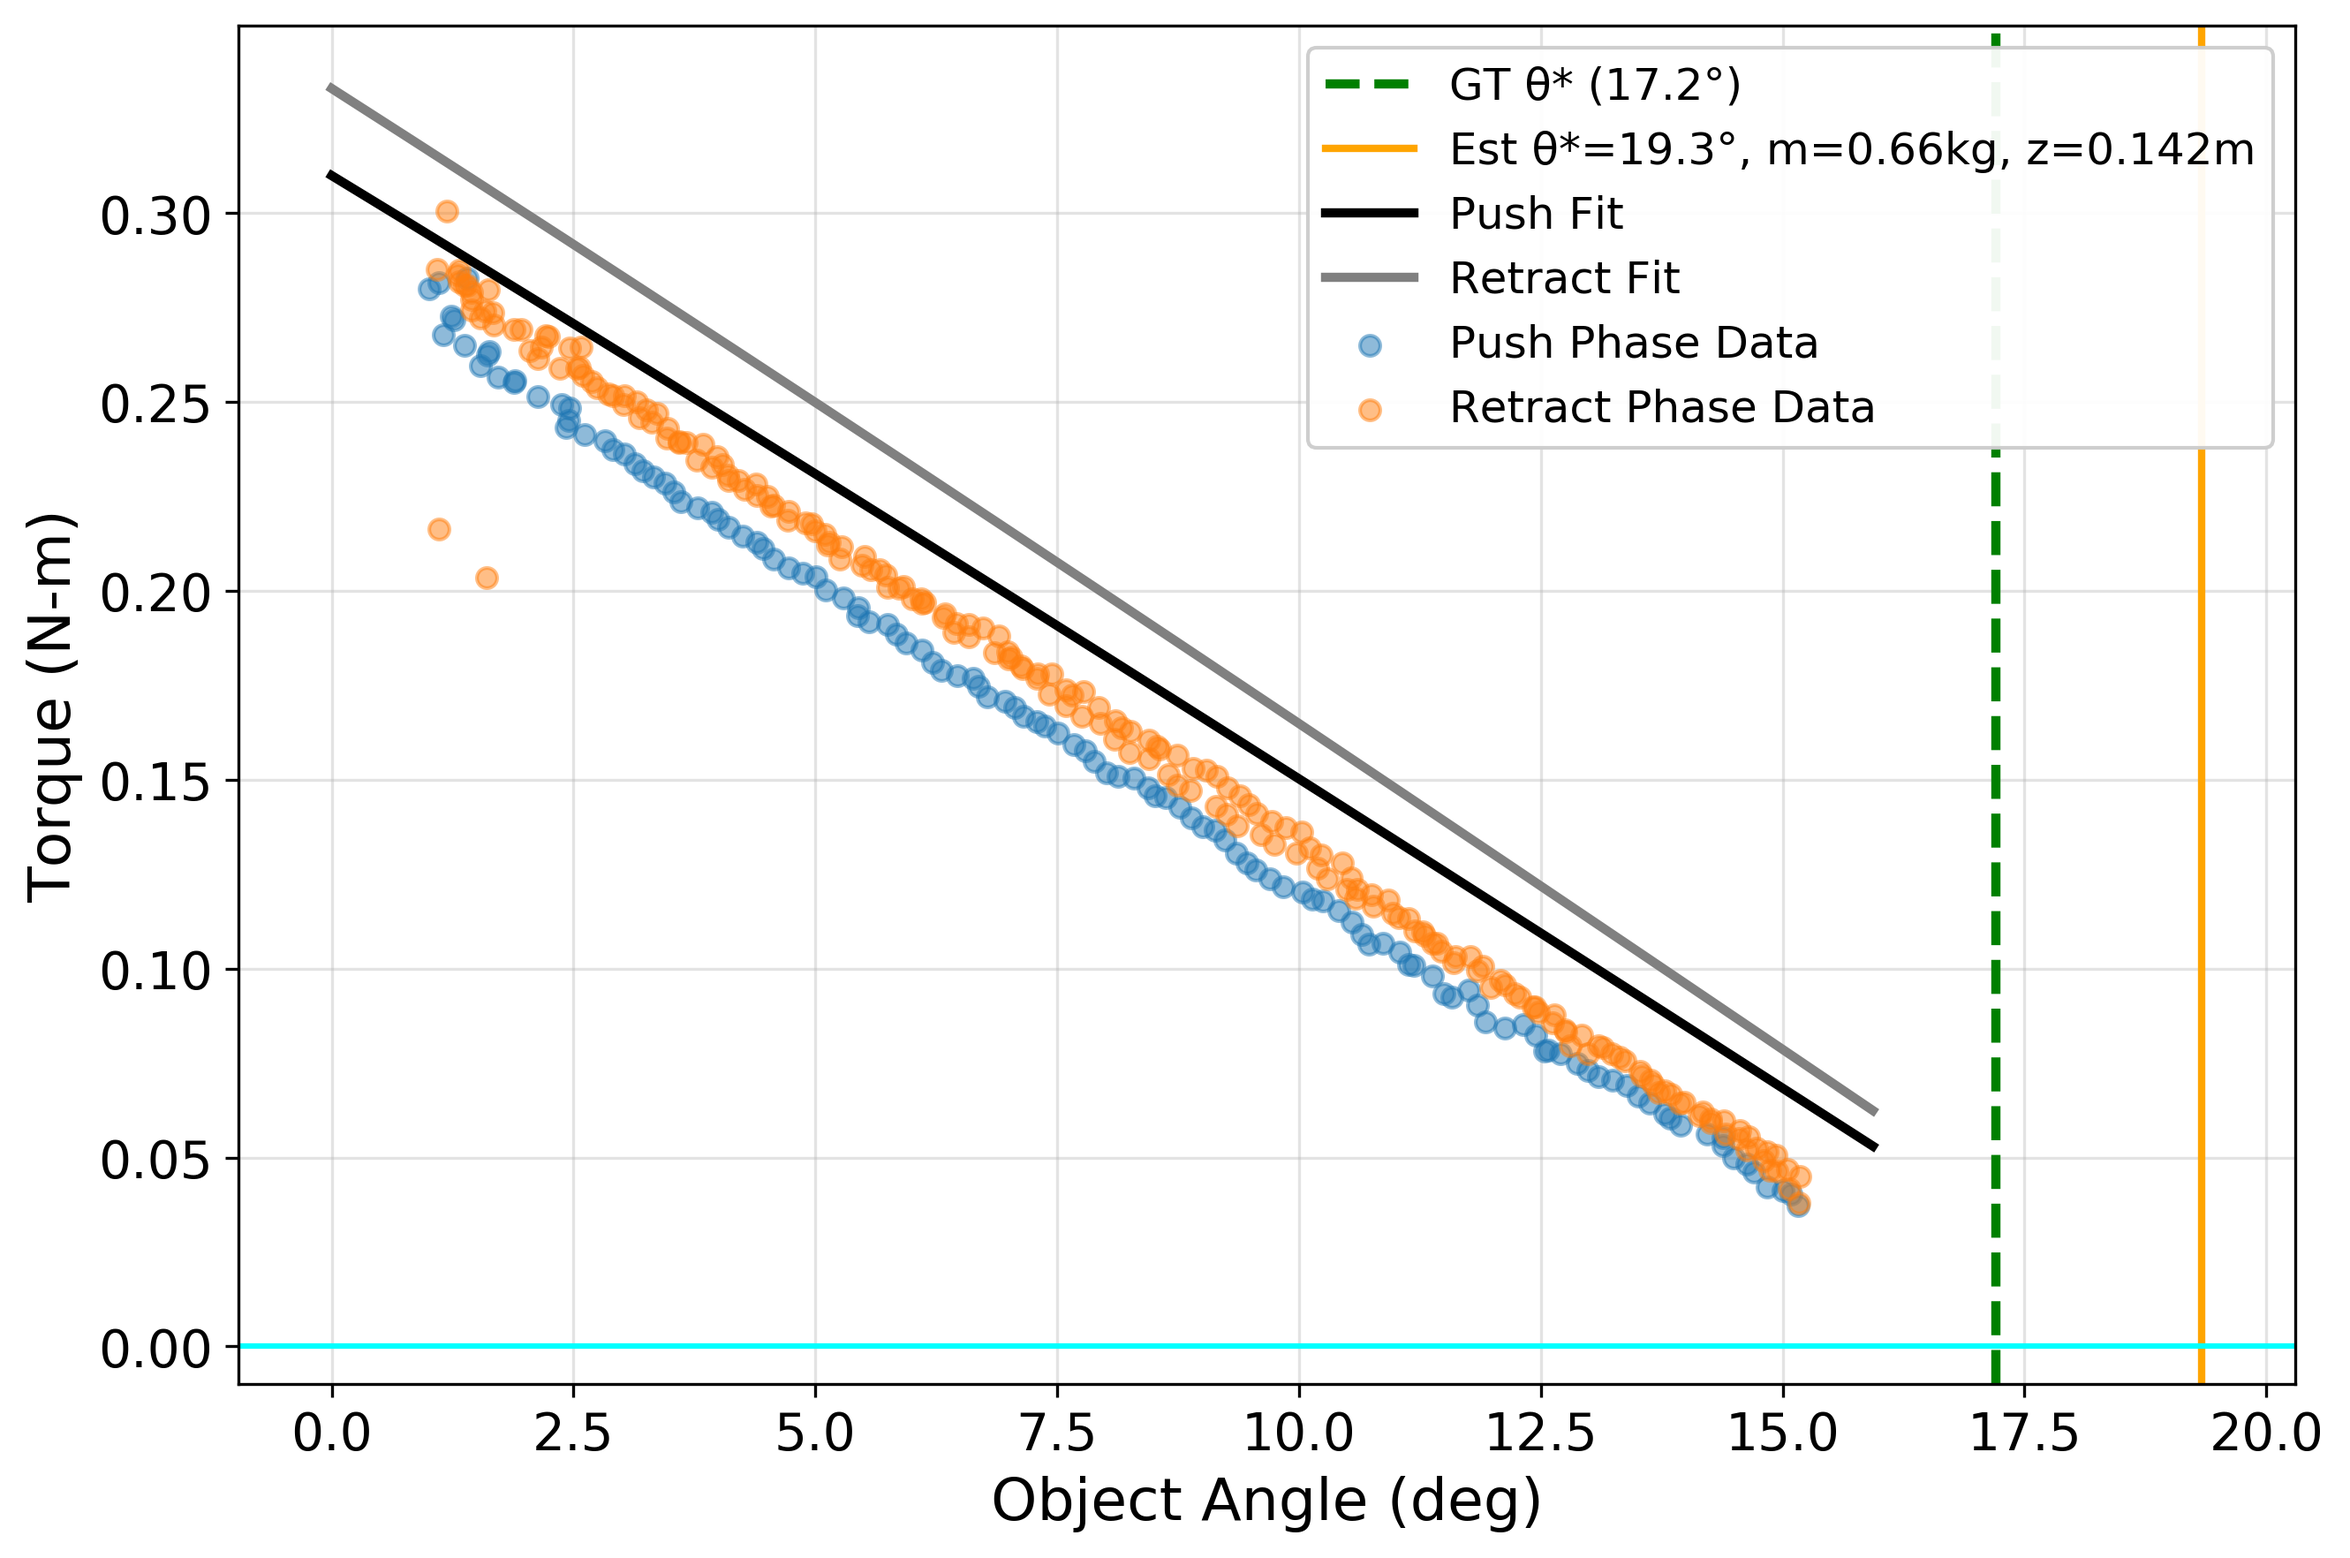
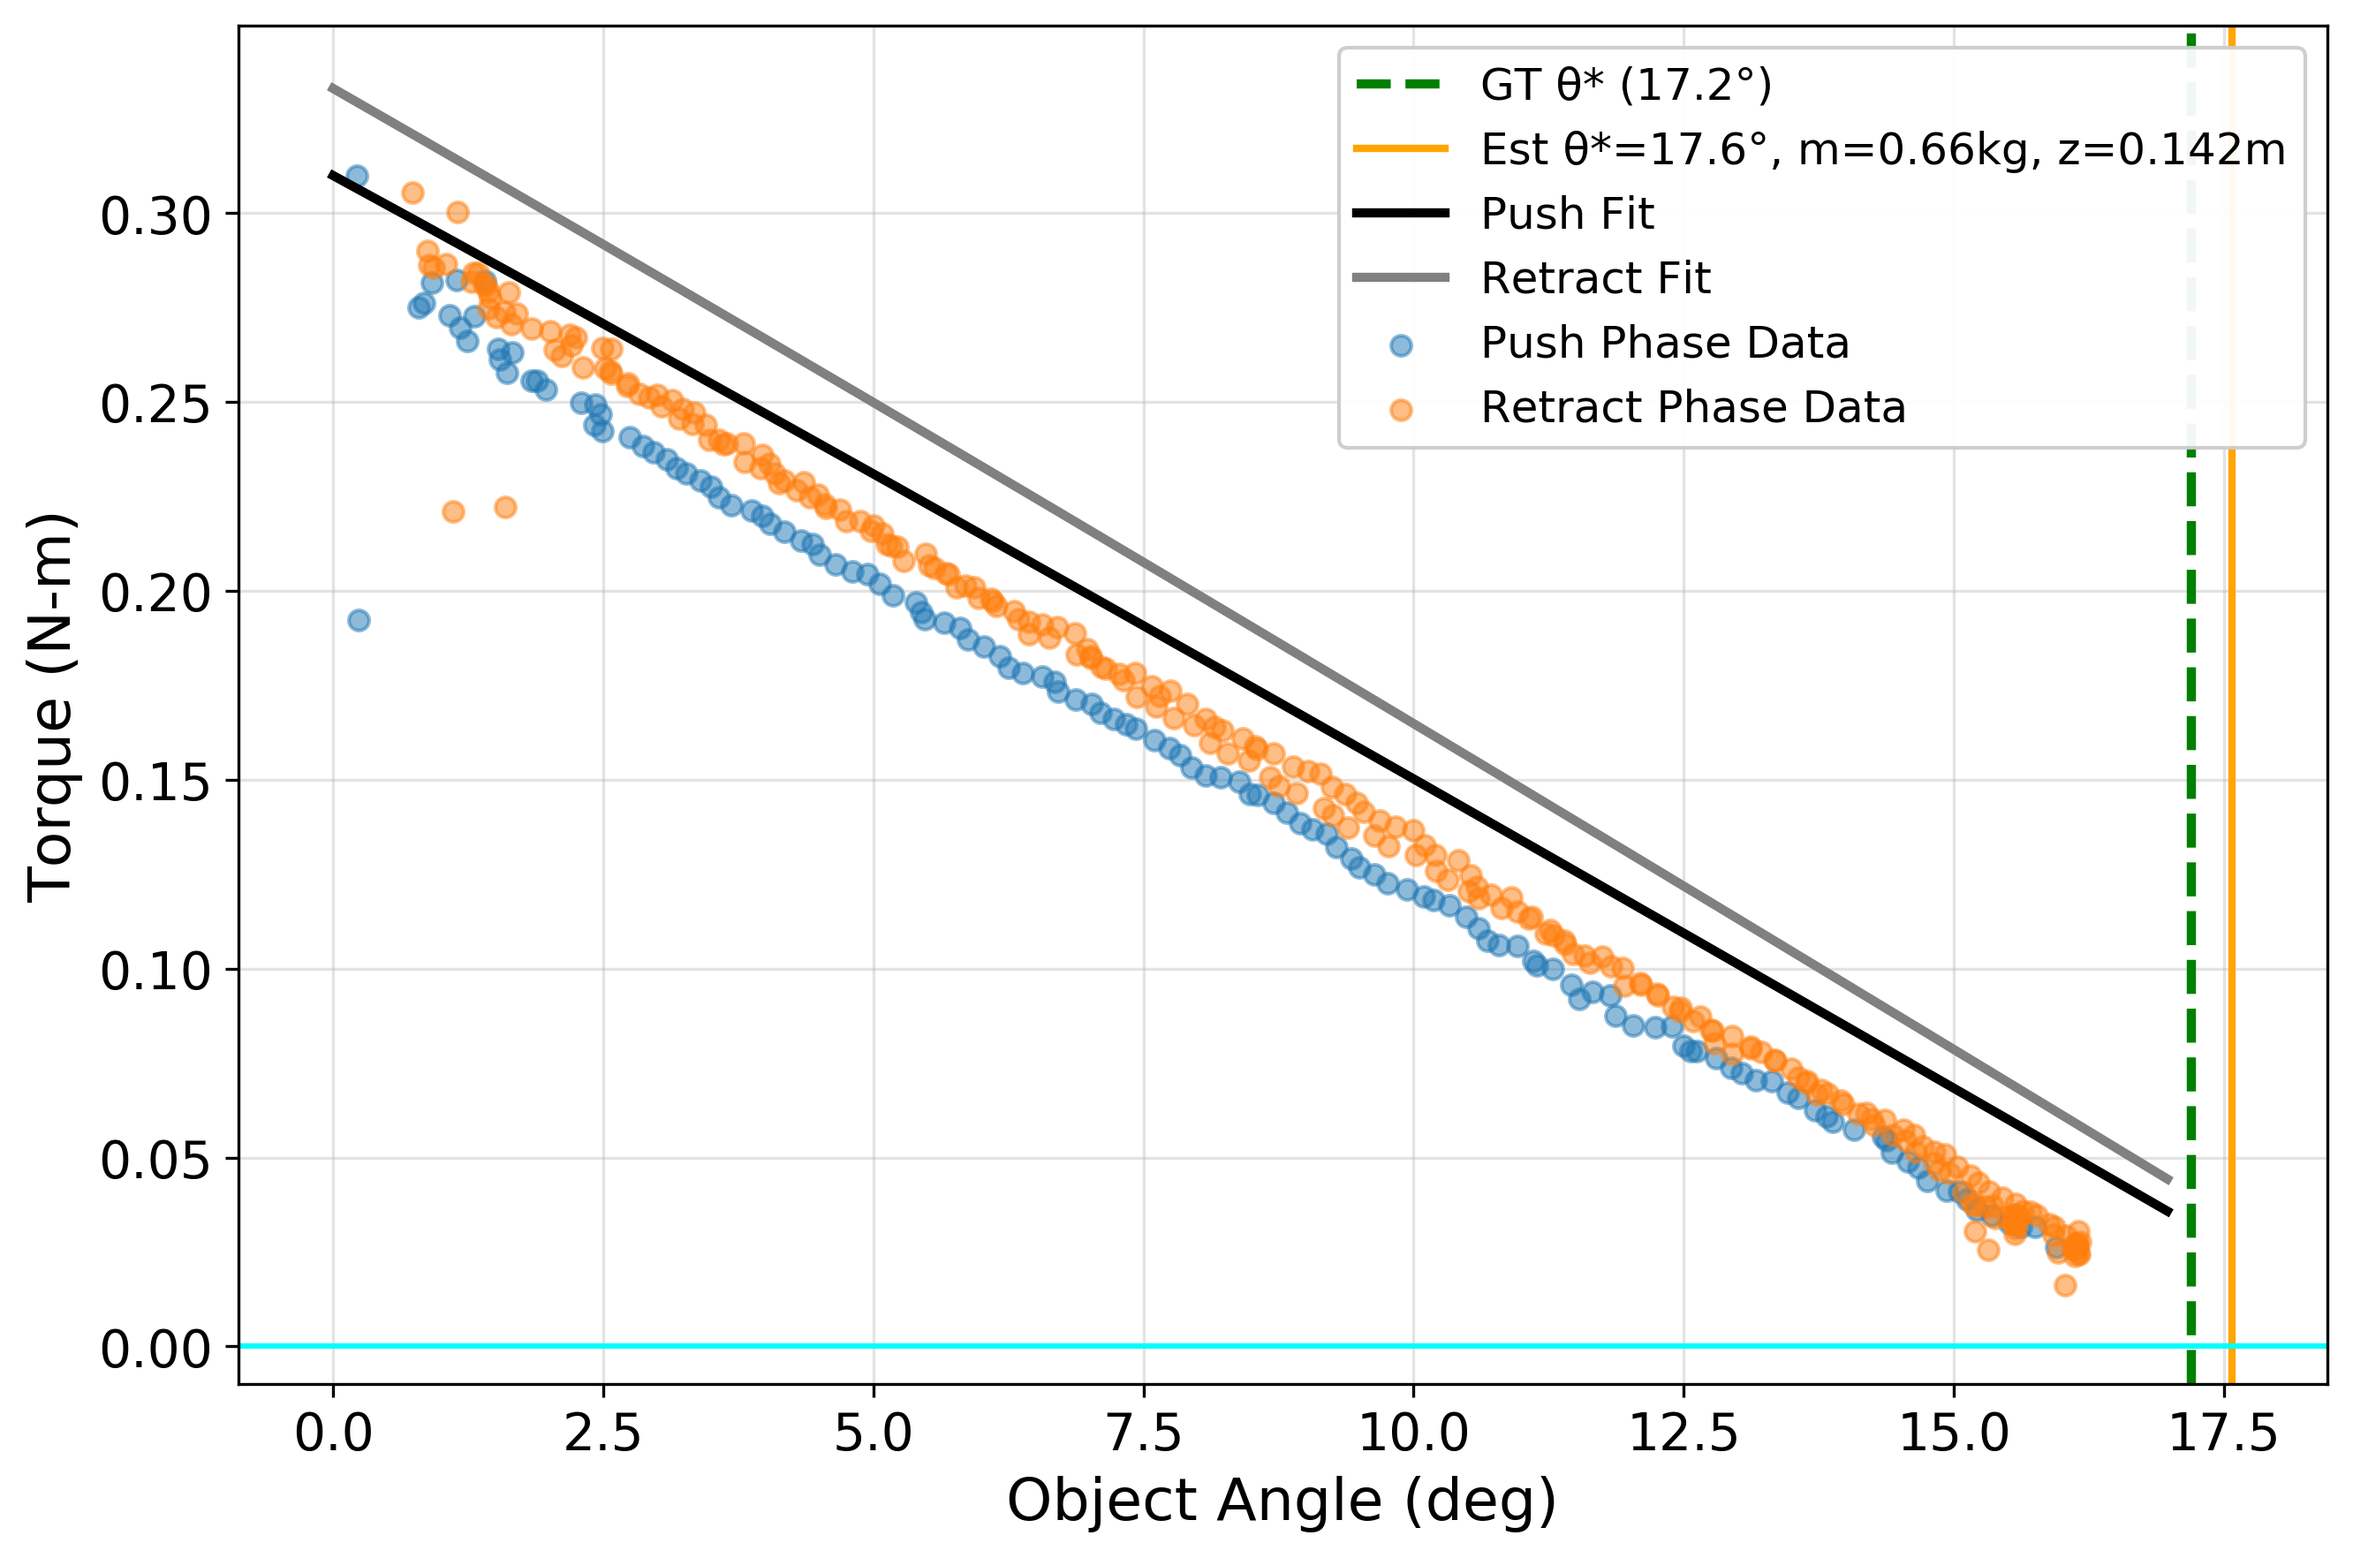
Trying to fix the fit plot recreation without cheating. Still considering re-doing the fit using csv raw data...

diff --git a/com_3d/post_processing/plot_comparison.py b/com_3d/post_processing/plot_comparison.py
@@ -62,6 +62,12 @@ RE_COMBINED = re.compile(
     re.IGNORECASE
 )
 
+# Weights line
+RE_WEIGHTS = re.compile(
+    r'Weights:\s*push=(?P<push>[\d\.]+),\s*retract=(?P<retract>[\d\.]+)',
+    re.IGNORECASE
+)
+
 # Phase lines (PUSH / RETRACT)
 RE_PHASE = re.compile(
     r'(?P<phase>Push|Retract)\s+Phase:\s*m=(?P<m>[\d\.]+)\s*kg,\s*zc=(?P<zc>[\d\.]+)\s*m,\s*th\*=(?P<th>[\d\.]+)\s*deg',
@@ -84,17 +90,22 @@ def parse_blocks_from_text(text: str):
         "combined": (m, zc, th) or None,
         "push":     (m, zc, th) or None,
         "retract":  (m, zc, th) or None,
+        "weights":  (w_push, w_retract) or None,
       }
     """
     chunks = RE_BLOCK_SPLIT.split(text)
     blocks = [c.strip() for c in chunks if c.strip()]
     out = []
     for b in blocks:
-        d = {"combined": None, "push": None, "retract": None}
+        d = {"combined": None, "push": None, "retract": None, "weights": None}
 
         mc = RE_COMBINED.search(b)
         if mc:
             d["combined"] = (float(mc.group("m")), float(mc.group("zc")), float(mc.group("th")))
+
+        mw = RE_WEIGHTS.search(b)
+        if mw:
+            d["weights"] = (float(mw.group("push")), float(mw.group("retract")))
 
         # phase matches (there may be 0, 1, or 2)
         for mp in RE_PHASE.finditer(b):
@@ -239,6 +250,11 @@ def build_summary_from_txt(txt_dir: str, strict_two_pushes: bool, use_both_pushe
                 v = b.get(phase, None)
                 if v is None:
                     continue  # do not emit missing phase
+                w_push = None
+                w_retr = None
+                if b.get("weights") is not None:
+                    w_push, w_retr = b["weights"]
+                w_phase = w_push if phase == "push" else w_retr
                 per_file_phase_rows.append({
                     "object": obj,
                     "n_safety": float(ns),
@@ -248,6 +264,7 @@ def build_summary_from_txt(txt_dir: str, strict_two_pushes: bool, use_both_pushe
                     "m_est_kg": float(v[0]),
                     "zc_est_m": float(v[1]),
                     "theta_star_est_deg": float(v[2]),
+                    "weight": float(w_phase) if w_phase is not None else np.nan,
                 })
 
     if not per_file_rows:
@@ -285,10 +302,10 @@ def build_summary_from_txt(txt_dir: str, strict_two_pushes: bool, use_both_pushe
     if per_file_phase_rows:
         dph = pd.DataFrame(per_file_phase_rows)
         aggph = dph.groupby(["object", "n_safety", "push_idx", "phase"]).agg(
-            n_files=("source_txt", "count"),
             m_est_kg=("m_est_kg", "mean"),
             zc_est_m=("zc_est_m", "mean"),
             theta_star_est_deg=("theta_star_est_deg", "mean"),
+            weight=("weight", "mean"),
         ).reset_index()
 
         # attach GT and errors
@@ -307,8 +324,8 @@ def build_summary_from_txt(txt_dir: str, strict_two_pushes: bool, use_both_pushe
         summary_long = aggph
     else:
         summary_long = pd.DataFrame(columns=[
-            "object","n_safety","push_idx","phase","n_files",
-            "m_est_kg","zc_est_m","theta_star_est_deg",
+            "object","n_safety","push_idx","phase",
+            "m_est_kg","zc_est_m","theta_star_est_deg","weight",
             "m_gt_kg","zc_gt_m","theta_star_gt_deg",
             "m_err_pct","zc_err_pct","theta_star_err_pct",
         ])

diff --git a/com_3d/post_processing/refit_and_plot.py b/com_3d/post_processing/refit_and_plot.py
@@ -45,8 +45,6 @@ from scipy.signal import butter, filtfilt
 THETA_STAR_GT_DEG = 17.2  # Ground truth theta_star (degrees) - change this for different objects/targets
 DECIMATE = 40  # Data point decimation factor - adjust for readability
 N_SAFETY_VALUES = [0.100, 0.500, 0.650]  # n_safety trials to process
-THETA_MIN_DEG = 1.0  # Ignore data below this angle (degrees)
-THETA_MAX_MARGIN_DEG = 1.0  # Ignore data within this margin of max angle (degrees)
 SUMMARY_CSV_PATH = os.path.join(os.path.dirname(os.path.abspath(__file__)), "summary_by_object_nsafety_phase.csv")
 # =========================
 
@@ -105,12 +103,6 @@ class RefitEstimator:
         rot_vecs = np.array(rot_vecs)
         theta_exp = filtfilt(self.b, self.a, np.linalg.norm(rot_vecs, axis=1))
 
-        # Masking
-        theta_min = np.deg2rad(THETA_MIN_DEG)
-        theta_max = float(np.nanmax(theta_exp))
-        theta_max_allowed = theta_max - np.deg2rad(THETA_MAX_MARGIN_DEG)
-        valid_theta = (theta_exp >= theta_min) & (theta_exp <= theta_max_allowed)
-
         # Only first push: find where contact first becomes True
         contact_indices = np.where(c_raw)[0]
         if len(contact_indices) == 0:
@@ -132,8 +124,8 @@ class RefitEstimator:
         push_mask = np.zeros(len(c_raw), dtype=bool)
         retr_mask = np.zeros(len(c_raw), dtype=bool)
         
-        push_mask[contact_start:retract_start] = c_raw[contact_start:retract_start] & (~r_raw[contact_start:retract_start]) & valid_theta[contact_start:retract_start]
-        retr_mask[retract_start:contact_end+1] = c_raw[retract_start:contact_end+1] & (r_raw[retract_start:contact_end+1]) & valid_theta[retract_start:contact_end+1]
+        push_mask[contact_start:retract_start] = c_raw[contact_start:retract_start] & (~r_raw[contact_start:retract_start])
+        retr_mask[retract_start:contact_end+1] = c_raw[retract_start:contact_end+1] & r_raw[retract_start:contact_end+1]
 
         n_push = int(np.sum(push_mask))
         n_retr = int(np.sum(retr_mask))
@@ -171,15 +163,21 @@ class RefitEstimator:
                 "m": float(row["m_est_kg"]),
                 "zc": float(row["zc_est_m"]),
                 "ths_deg": float(row["theta_star_est_deg"]),
+                "weight": float(row["weight"]),
             }
 
         fit_push = _get_phase_est("push")
         fit_retr = _get_phase_est("retract")
 
-        # Combined estimate for annotation (mean of phase estimates)
-        m_est = 0.5 * (fit_push["m"] + fit_retr["m"])
-        zc_est = 0.5 * (fit_push["zc"] + fit_retr["zc"])
-        ths_est = float(np.arctan2(self.d, zc_est))
+        # Combined estimate for annotation (weighted average using CSV weights)
+        w_push = fit_push["weight"]
+        w_retr = fit_retr["weight"]
+        w_total = w_push + w_retr
+        
+        m_est = (w_push * fit_push["m"] + w_retr * fit_retr["m"]) / w_total
+        zc_est = (w_push * fit_push["zc"] + w_retr * fit_retr["zc"]) / w_total
+        ths_est_deg = (w_push * fit_push["ths_deg"] + w_retr * fit_retr["ths_deg"]) / w_total
+        ths_est = float(np.deg2rad(ths_est_deg))
 
         return {
             "fit_push": fit_push,
